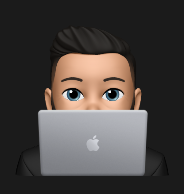
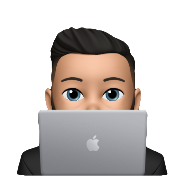
feat: - add hero section with memoji and buttons. - Changed memoji Background

diff --git a/src/components/sections/Hero.tsx b/src/components/sections/Hero.tsx
@@ -1,26 +1,36 @@
+import MeStickerLaptop from "../../assets/MeSticker.png";
+
 export default function Hero() {
   return (
-    <section className="flex flex-col items-center justify-center text-center px-3 py-20 w-full">
-      <img
-        src="src/assets/MeSticker.png"
-        alt="Profile Picture"
-        className="w-32 h-32 rounded-full mb-4"
-      />
-      <h1 className="text-5xl font-bold mb-4">Welcome to My Portfolio</h1>
-      <p className="text-lg text-gray-600 mb-6">
-        I'm a passionate developer specializing in web development and design.
-        Explore my projects and skills below!
-      </p>
-      <span></span>
-      <p className="text-lg text-center text-gray-600 mb-6">
-        Lorem ipsum dolor sit amet, consectetur adipiscing elit, sed do eiusmod
-        tempor incididunt ut labore et dolore magna aliqua. Ut enim ad minim
-        veniam, quis nostrud exercitation ullamco laboris nisi ut aliquip ex ea
-        commodo consequat. Duis aute irure dolor in reprehenderit in voluptate
-        velit esse cillum dolore eu fugiat nulla pariatur. Excepteur sint
-        occaecat cupidatat non proident, sunt in culpa qui officia deserunt
-        mollit anim id est laborum.
-      </p>
+    <section className="w-full flex flex-col-reverse md:flex-row justify-between items-center mx-auto pt-20 pb-5 px-10 gap-10 md:gap-32 max-w-5xl">
+      {/* Left Side */}
+      <div className="flex-1">
+        <h1 className="font-syne text-2xl md:text-5xl font-bold">
+          <span className="text-accent">Java</span> Developer & <br />
+          <span className="text-accent">React</span> learner
+        </h1>
+        <p className="text-wrap py-4 text-white/60 text-sm/6">
+          Daily Java programer, exploring the front-end side with React and
+          Tailwind. I like to resolve real life problems with clean code.
+        </p>
+        {/* Buttons container */}
+        <div className="flex justify-center md:justify-start gap-2">
+          <button className="bg-accent text-black rounded-md font-syne px-5 py-2 hover:bg-accent/80 hover:scale-105 transition-all duration-200 cursor-pointer">
+            Projects
+          </button>
+          <button className="bg-transparent text-white/60 rounded-md font-syne px-5 py-2 border-2 hover:border-accent hover:text-accent transition-colors duration-200 cursor-pointer">
+            Contact
+          </button>
+        </div>
+      </div>
+      {/* Right Side */}
+      <div className="flex-1 justify-center items-center">
+        <img
+          src={MeStickerLaptop}
+          alt="Profile Picture"
+          className="w-32 h-32 md:w-64 md:h-64 mb-4"
+        />
+      </div>
     </section>
   );
 }

diff --git a/src/App.tsx b/src/App.tsx
@@ -1,10 +1,12 @@
 import Header from "./components/layout/Header";
+import Main from "./components/layout/Main";
 
 function App() {
   return (
     <>
       <div className="bg-dark">
         <Header />
+        <Main />
       </div>
     </>
   );

diff --git a/src/components/layout/Main.tsx b/src/components/layout/Main.tsx
@@ -5,7 +5,7 @@ export default function Main() {
   return (
     <main className="flex flex-col items-center">
       <Hero />
-      <Skills />
+      {/* <Skills /> */}
     </main>
   );
 }
